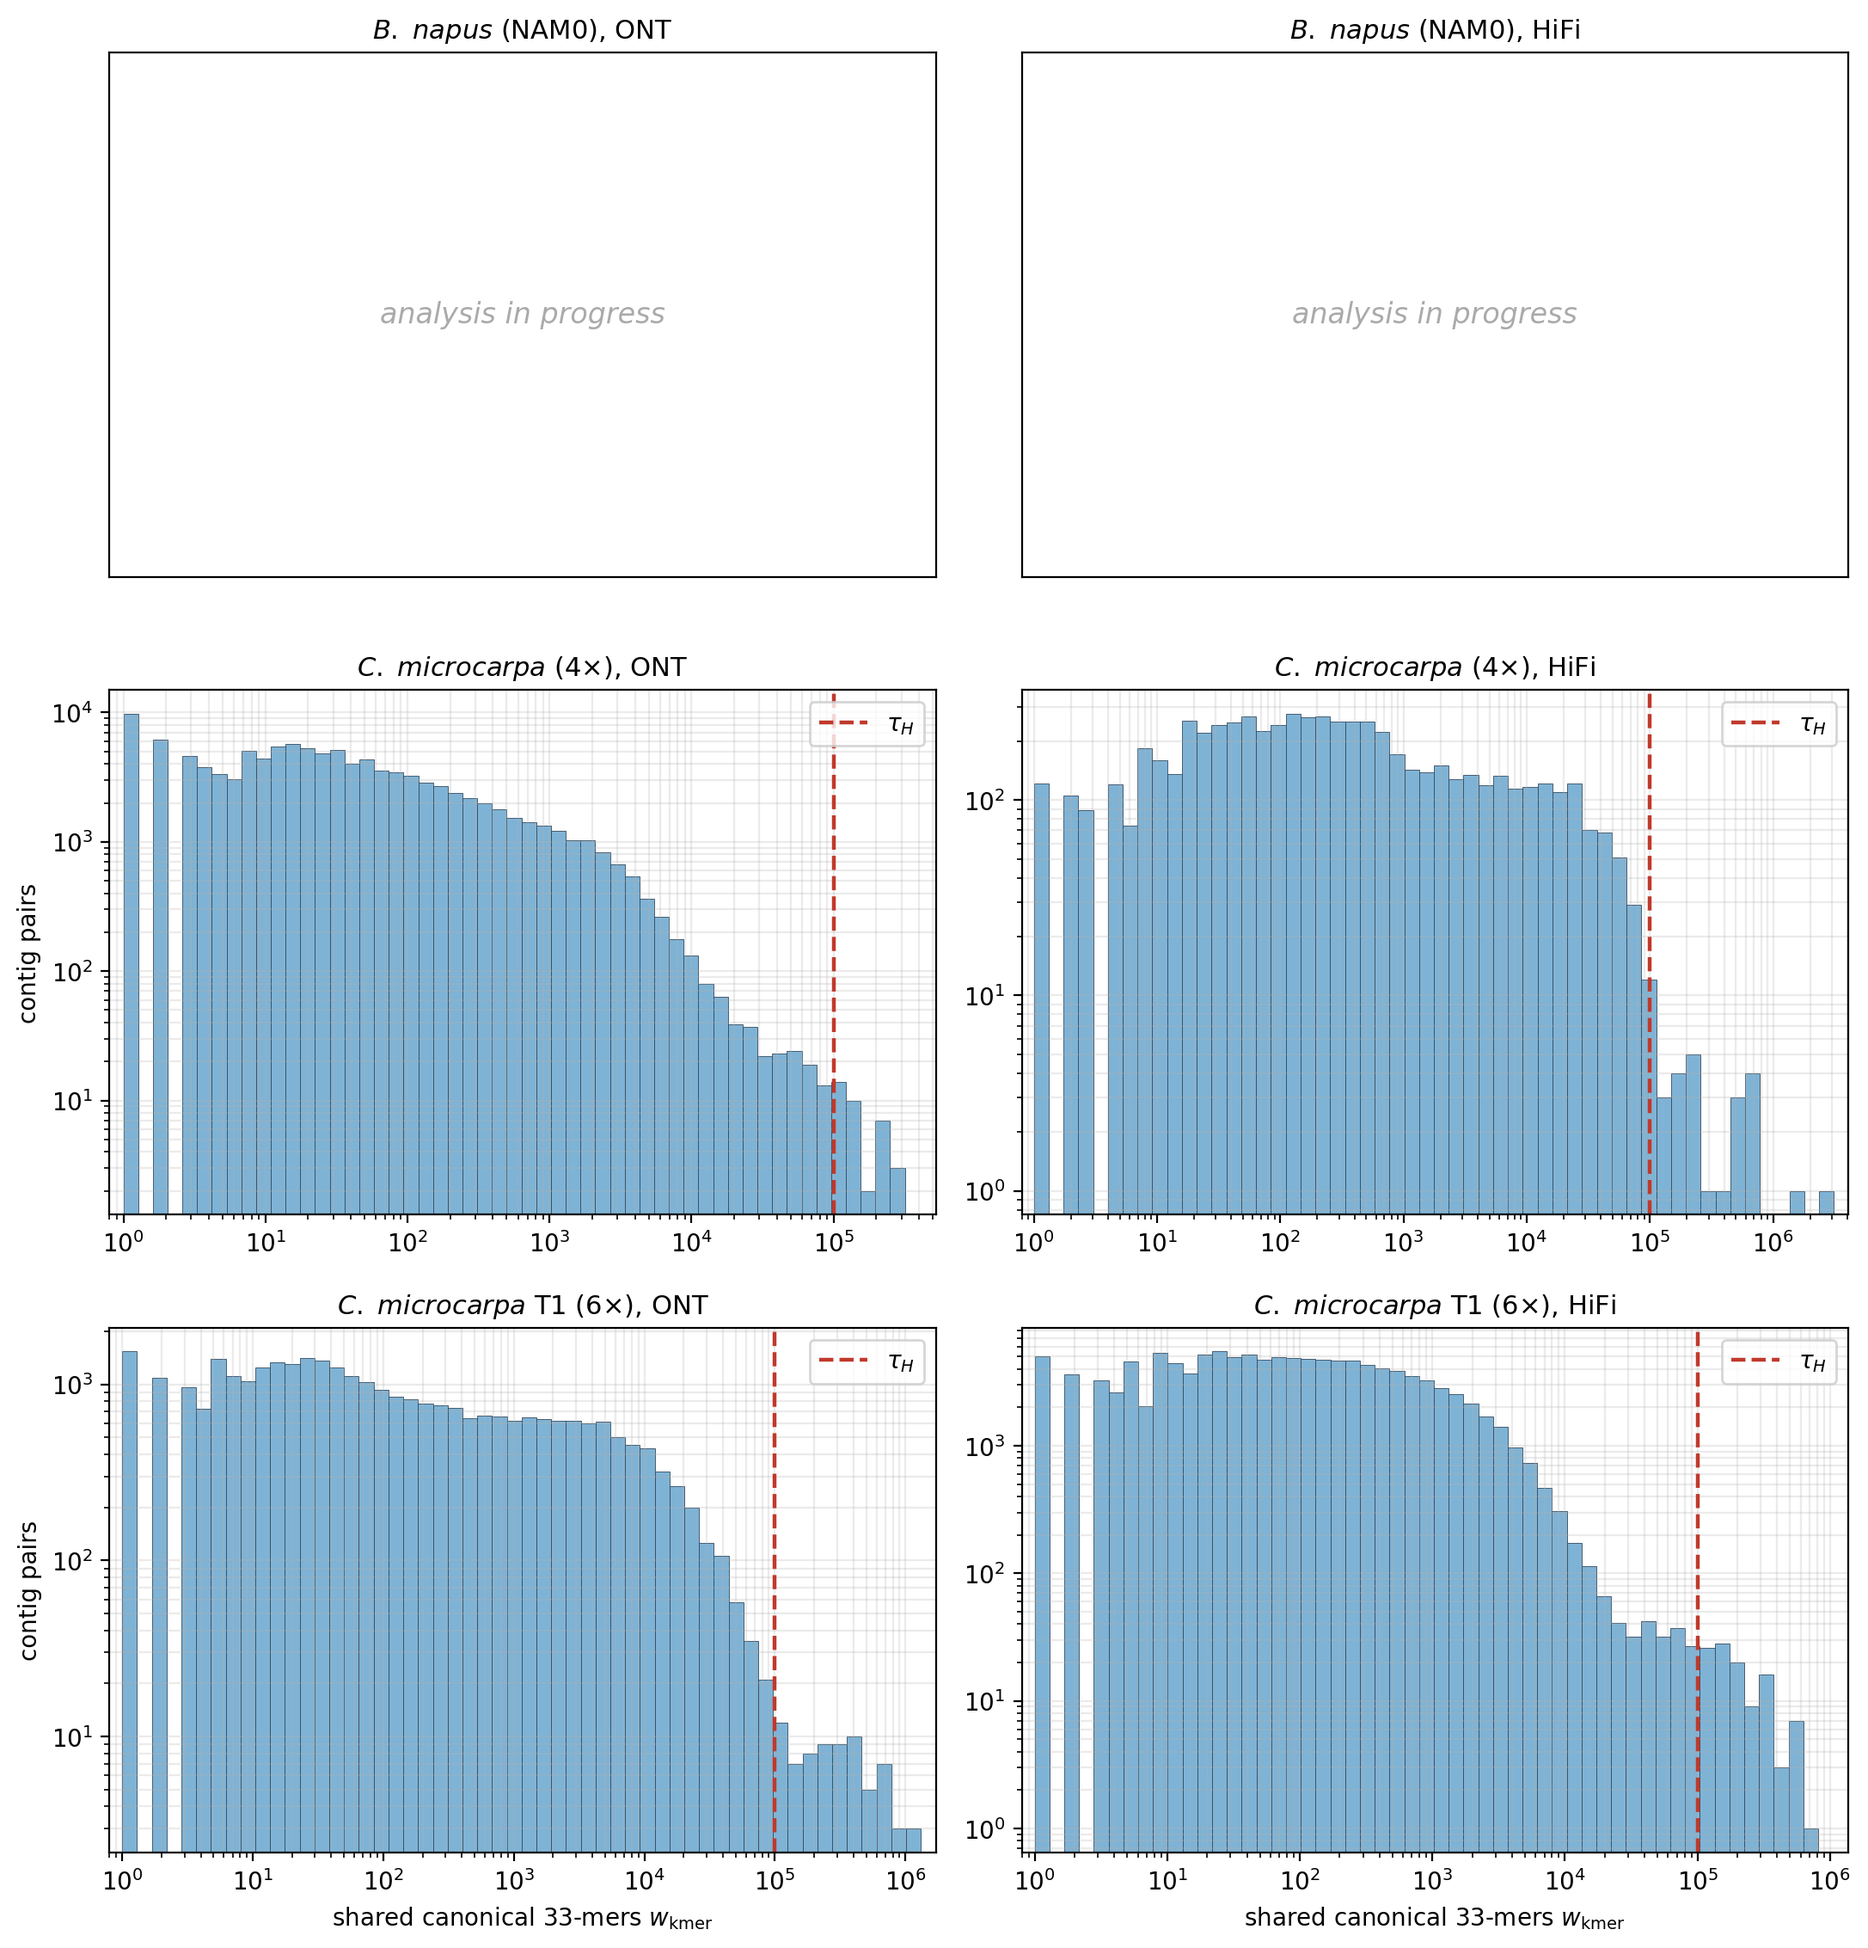
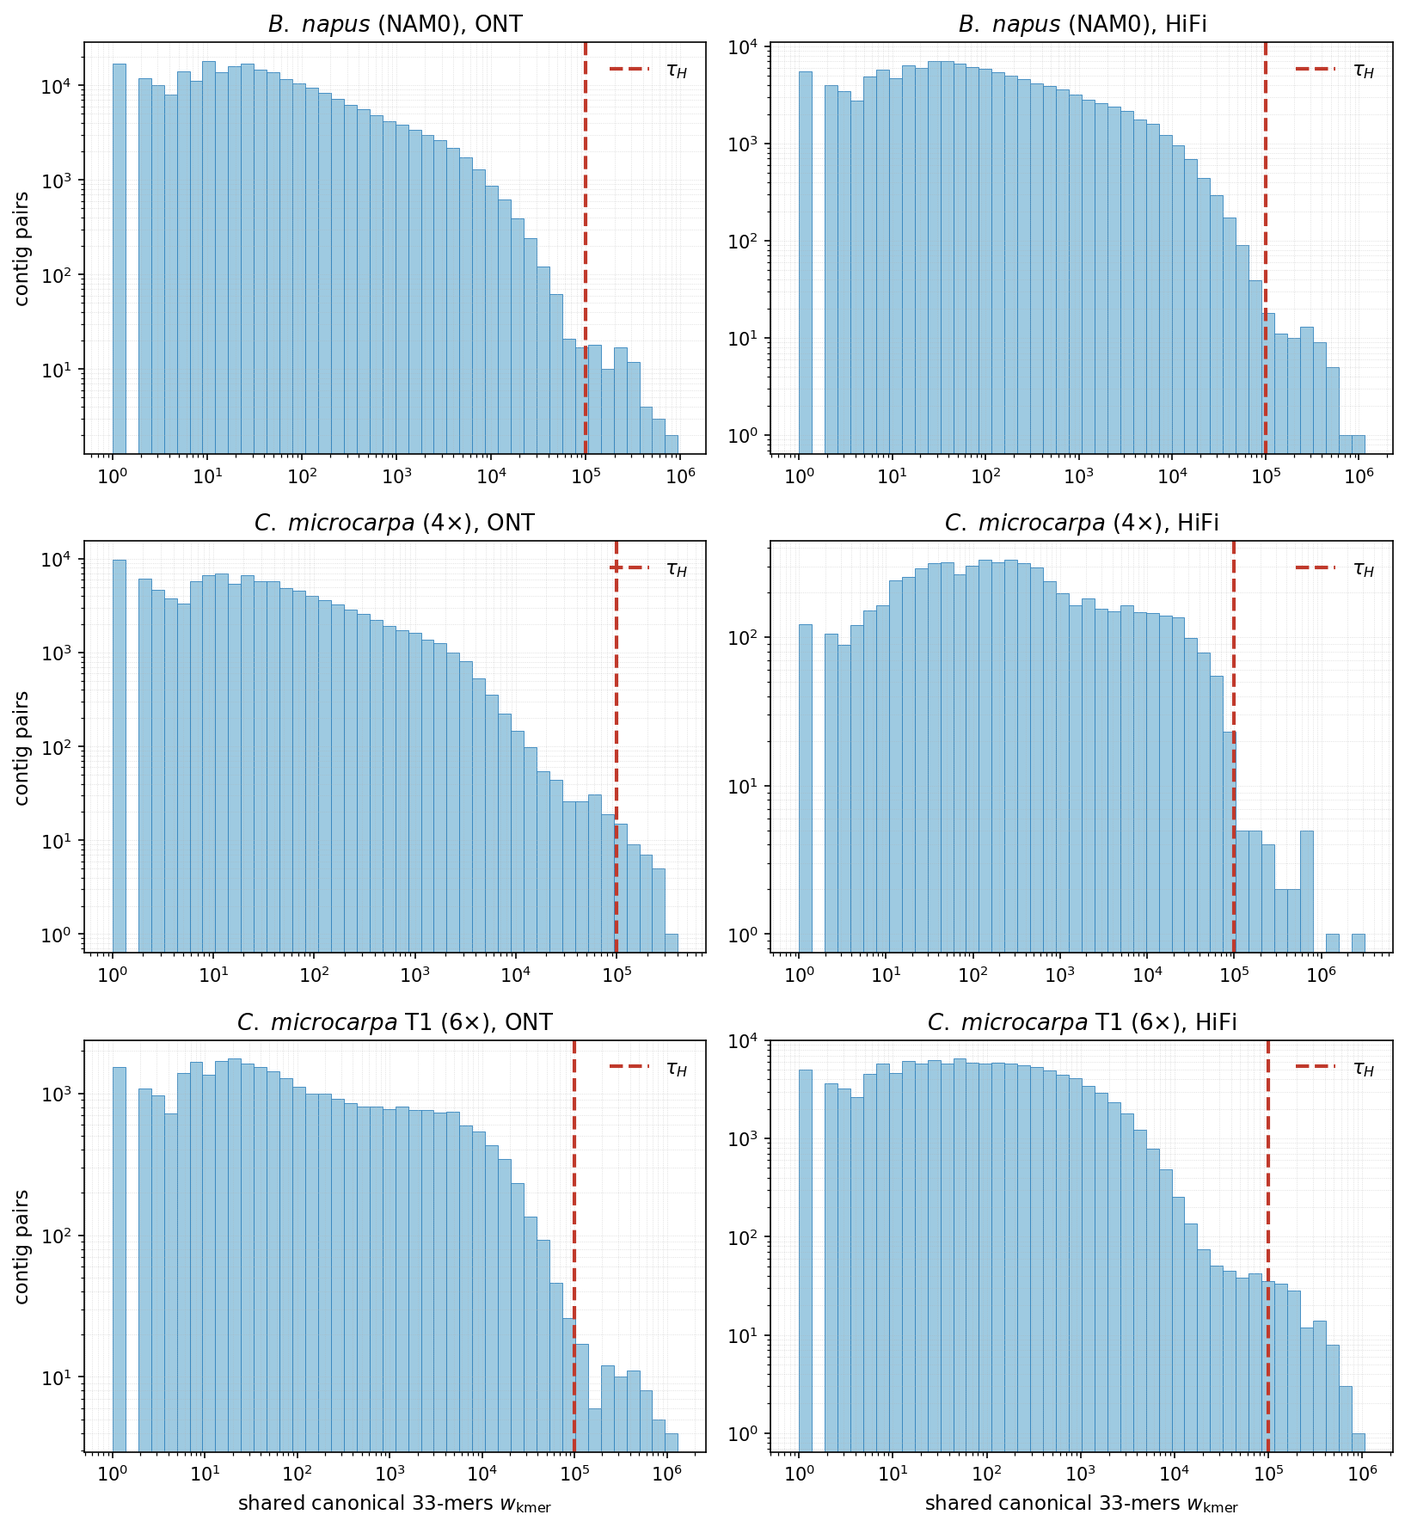
Complete Tables S3-S4, add Table S5 placeholder; restore pending text corrupted upstream; guard edgeless de-chimerization subgraph; refresh Fig S3/S4

diff --git a/pipeline/dechimerize_structural.py b/pipeline/dechimerize_structural.py
@@ -21,8 +21,11 @@ def structural_dechimerize(blocks, G, strong_edges, lengths, verbose=True):
         new = []
         for com in blocks:
             sub = G.subgraph(com)
-            parts = [list(c) for c in louvain_communities(sub, weight="weight",
-                                                          resolution=SUBRES, seed=1)]
+            if sub.number_of_edges() == 0 or sub.size(weight="weight") == 0:
+                parts = [list(com)]          # edgeless/zero-weight subgraph: cannot re-cluster, keep whole
+            else:
+                parts = [list(c) for c in louvain_communities(sub, weight="weight",
+                                                              resolution=SUBRES, seed=1)]
             big = [p for p in parts if sum(lengths[c] for c in p) >= MIN_SUB]
             seam = None
             if len(big) >= 2:

diff --git a/SUPPLEMENTARY.md b/SUPPLEMENTARY.md
@@ -42,7 +42,7 @@ genuine homoeologs share long sequence tracts and occupy the extreme upper tail,
 from the background of incidental matches; the strong-edge cutoff $\tau_H$ (dashed line) retains the
 upper-tail edges as homoeolog links, and is read off this distribution rather than tuned on truth
 labels. The more contiguous HiFi assemblies push the homoeolog tail to higher $w_{\mathrm{kmer}}$.
-The *B. napus* (NAM0) panels are left blank  its assembly runs.
+The *B. napus* (NAM0) panels are left blank pending its assembly runs.
 
 ### Figure S4. Read-level confusion matrices across methods and species
 <p align="center"><img src="figures/FigS4_confusion_all.png" alt="Read-level confusion matrices, three species by four methods" width="100%"></p>
@@ -56,7 +56,7 @@ emit unlabelled clusters (polyCRACKER, SubPhaser), clusters are mapped to subgen
 one-to-one assignment to truth. **PolySplit** concentrates on the diagonal (99.0% tetraploid,
 96.2% hexaploid, using no reference), whereas **polyCRACKER** collapses the subgenomes into a single
 cluster (46.5%, 41.0%) and **SubPhaser** leaks or scrambles them (76.7%, 38.8%). The reference-guided
-panels and the entire *B. napus* (NAM0) row are left blank  those runs.
+panels and the entire *B. napus* (NAM0) row are left blank pending those runs.
 
 ## Supplementary Tables
 
@@ -67,12 +67,15 @@ placed-chromosome size.
 
 | Genome | reads | mixed Flye | separated (Σ subgenomes) | reference |
 |---|---|---|---|---|
-| *B. napus* NAM0 | ONT | _[]_ | _[]_ | 1008 |
-| *B. napus* NAM0 | HiFi | _[]_ | _[]_ | 1008 |
-| *C. microcarpa* (4×) | ONT | 365 | _[]_ | 384 |
-| *C. microcarpa* (4×) | HiFi | 360 | _[]_ | 384 |
-| *C. microcarpa* T1 (6×) | ONT (`--nano-hq`) | 615 | _[]_ | 608 |
-| *C. microcarpa* T1 (6×) | HiFi | 591 | _[]_ | 608 |
+<!-- | *B. napus* NAM0 | ONT | 916 | _[pending]_ | 978 | -->
+| *B. napus* NAM0 | HiFi | 992 | 992 | 978 |
+<!-- | *C. microcarpa* (4×) | ONT | 365 | _[pending]_ | 360 | -->
+| *C. microcarpa* (4×) | HiFi | 360 | 359 | 360 |
+<!-- | *C. microcarpa* T1 (6×) | ONT (`--nano-hq`) | 615 | _[pending]_ | 587 | -->
+| *C. microcarpa* T1 (6×) | HiFi | 591 | 591 | 587 |
+
+Reference = summed placed (anchored) subgenome chromosomes; full reference genomes, including
+unplaced scaffolds, are 1008 / 384 / 608 Mb (Table I).
 
 ### Table S2. Per-subgenome precision, recall, and F1
 Breakdown of the macro-averaged values in main Table III. Abbreviations: P, precision; R, recall;
@@ -81,44 +84,98 @@ but are never false positives.
 
 | Genome | reads | subgenome | P | R | F1 |
 |---|---|---|---|---|---|
-| *B. napus* NAM0 | ONT | A | _[]_ | _[]_ | _[]_ |
-| *B. napus* NAM0 | ONT | C | _[]_ | _[]_ | _[]_ |
+| *B. napus* NAM0 | ONT | A | 96.6 | 95.7 | 96.1 |
+| *B. napus* NAM0 | ONT | C | 98.4 | 95.5 | 96.9 |
+| *B. napus* NAM0 | HiFi | A | 98.5 | 98.6 | 98.5 |
+| *B. napus* NAM0 | HiFi | C | 99.2 | 98.8 | 99.0 |
 | *C. microcarpa* (4×) | ONT | S1 | 98.9 | 96.8 | 97.8 |
 | *C. microcarpa* (4×) | ONT | S2 | 98.0 | 97.6 | 97.8 |
+| *C. microcarpa* (4×) | HiFi | S1 | 99.9 | 98.7 | 99.3 |
+| *C. microcarpa* (4×) | HiFi | S2 | 99.2 | 99.5 | 99.3 |
 | *C. microcarpa* T1 (6×) | ONT (`--nano-hq`) | S1 | 99.6 | 88.7 | 93.8 |
 | *C. microcarpa* T1 (6×) | ONT (`--nano-hq`) | S2 | 85.6 | 96.5 | 90.7 |
 | *C. microcarpa* T1 (6×) | ONT (`--nano-hq`) | S3 | 99.1 | 92.1 | 95.5 |
+| *C. microcarpa* T1 (6×) | HiFi | S1 | 96.7 | 96.1 | 96.4 |
+| *C. microcarpa* T1 (6×) | HiFi | S2 | 94.0 | 98.1 | 96.0 |
+| *C. microcarpa* T1 (6×) | HiFi | S3 | 99.0 | 94.8 | 96.9 |
 
 ### Table S3. Subgenome-resolved assembly quality (HiFi)
 Each subgenome's reads were assembled independently (Flye) and scaffolded with Hi-C (YaHS).
-Size is compared to the expected subgenome size; purity is the fraction of assembly length whose
-best alignment is to the intended subgenome rather than its homoeolog. A clean separation shows
-high purity and low BUSCO duplication (homoeologous copies removed); for contrast, the fused
-scaffold-first assembly is chimeric (low purity, high duplication).
+Purity (the fraction of assembly length whose best alignment is to the intended subgenome rather
+than its homoeolog) is the separation metric: near-100% purity confirms homoeologs were not fused.
+BUSCO completeness (C = single + duplicated) is high throughout; the elevated duplication (D) in the
+*B. napus* subgenomes reflects retained allelic haplotypes (`--keep-haplotypes`) and the ancestral
+*Brassica* genome triplication, not homoeolog fusion, which the purity rules out.
 
 | Assembly | Size Mb (% exp.) | Contigs | N50 | BUSCO C% (D%) | Back-map % | Purity % |
 |---|---|---|---|---|---|---|
-| *B. napus* A (exp. 419) | _[]_ | | | | | |
-| *B. napus* C (exp. 559) | _[]_ | | | | | |
-| *C. microcarpa* 4× SG1 (exp. 188) | _[]_ | | | | | |
-| *C. microcarpa* 4× SG2 (exp. 172) | _[]_ | | | | | |
-| *C. microcarpa* 6× SG1 (exp. 188) | _[]_ | | | | | |
-| *C. microcarpa* 6× SG2 (exp. 172) | _[]_ | | | | | |
-| *C. microcarpa* 6× SG3 (exp. 227) | _[]_ | | | | | |
+| *B. napus* A (exp. 419) | 428 (102) | 691 | 25.3 Mb | 98.2 (29.7) | ~100 | 100.0 |
+| *B. napus* C (exp. 559) | 564 (101) | 296 | 57.7 Mb | 96.7 (30.6) | ~100 | 98.6 |
+| *C. microcarpa* 4× SG1 (exp. 188) | 187 (99.5) | 64 | 29.3 Mb | 99.2 (1.5) | ~100 | 99.9 |
+| *C. microcarpa* 4× SG2 (exp. 172) | 172 (100.0) | 93 | 25.9 Mb | 99.7 (1.2) | ~100 | 99.9 |
+| *C. microcarpa* 6× SG1 (exp. 188) | 191 (101.6) | 147 | 46.4 Mb | 97.2 (6.3) | ~100 | 91.6 |
+| *C. microcarpa* 6× SG2 (exp. 172) | 180 (104.7) | 196 | 24.0 Mb | 99.4 (6.5) | ~100 | 96.0 |
+| *C. microcarpa* 6× SG3 (exp. 227) | 220 (96.9) | 237 | 29.1 Mb | 91.9 (1.5) | ~100 | 99.7 |
 
 
-### Table S4. Parameter sensitivity
-Read accuracy under variation of each fixed threshold around its default, holding the others fixed;
-defaults in **bold**. Demonstrates that no result hinges on a tuned value. _[: sweep to run]_
+### Table S4. Parameter sensitivity (all three species, HiFi)
+Strict read accuracy (correct / chromosome-truth, ambiguous and unassigned counted as errors) under
+wide variation of each decision threshold, holding the others at their default (**bold**), for all
+three allopolyploids at HiFi. $t$ and $\rho$ govern the reference-guided signature classifier
+(PolySplit-Ref); $\beta$ and $\alpha$ govern PolySplit read propagation. The defaults reproduce the
+Table III results, and accuracy is flat across a wide neighbourhood of every default, degrading only
+at extreme values (e.g. very large $\rho$, which rejects most reads as unassigned). No result hinges
+on a tuned value. $f_{\max}$ (signature copy cap) and the block-size floor are structural constants
+set from the data, not accuracy thresholds, and are described in Methods rather than swept here.
 
-| Parameter | values tested | read accuracy |
-|---|---|---|
-| signature copy cap $f_{\max}$ | 2 / **3** / 5 | _[]_ |
-| min signature hits $t$ | 2 / **3** / 5 | _[]_ |
-| dominance ratio $\rho$ | 2 / **3** / 4 | _[]_ |
-| block floor (Mb) | 1 / **3** / 5 | _[]_ |
-| recovery floor $\alpha$ | 0.50 / **0.55** / 0.60 | _[]_ |
-| read confidence $\beta$ | 0.55 / **0.60** / 0.65 | _[]_ |
+**Minimum signature hits $t$** (PolySplit-Ref; $\rho=3$ fixed)
+
+| dataset | 1 | 2 | **3** | 5 | 10 | 20 | 50 | 100 |
+|---|---|---|---|---|---|---|---|---|
+| *C. microcarpa* (4×) | 98.9 | 98.9 | **98.9** | 98.9 | 98.9 | 98.9 | 98.9 | 98.8 |
+| *C. microcarpa* T1 (6×) | 96.9 | 96.9 | **96.9** | 96.9 | 96.9 | 96.8 | 96.6 | 96.3 |
+| *B. napus* NAM0 | 98.4 | 98.4 | **98.4** | 98.4 | 98.4 | 98.4 | 98.4 | 98.3 |
+
+**Dominance ratio $\rho$** (PolySplit-Ref; $t=3$ fixed)
+
+| dataset | 1.5 | 2 | **3** | 5 | 10 | 20 | 50 | 100 |
+|---|---|---|---|---|---|---|---|---|
+| *C. microcarpa* (4×) | 99.3 | 99.2 | **98.9** | 98.4 | 96.7 | 93.1 | 81.9 | 67.5 |
+| *C. microcarpa* T1 (6×) | 98.3 | 97.8 | **96.9** | 94.3 | 88.6 | 82.4 | 69.1 | 53.6 |
+| *B. napus* NAM0 | 99.5 | 99.1 | **98.4** | 97.0 | 93.9 | 89.0 | 77.6 | 64.6 |
+
+**Read confidence floor $\beta$** (PolySplit)
+
+| dataset | 0.50 | 0.55 | **0.60** | 0.70 | 0.80 | 0.90 |
+|---|---|---|---|---|---|---|
+| *C. microcarpa* (4×) | 99.4 | 99.1 | **99.0** | 98.8 | 98.7 | 98.6 |
+| *C. microcarpa* T1 (6×) | 96.5 | 96.3 | **96.2** | 95.5 | 95.1 | 94.9 |
+| *B. napus* NAM0 | 98.8 | 98.8 | **98.7** | 98.5 | 98.4 | 98.2 |
+
+**Small-contig recovery floor $\alpha$** (PolySplit)
+
+| dataset | 0.40 | 0.50 | **0.55** | 0.60 | 0.70 | 0.80 |
+|---|---|---|---|---|---|---|
+| *C. microcarpa* (4×) | 99.0 | 99.0 | **99.0** | 99.0 | 99.0 | 99.0 |
+| *C. microcarpa* T1 (6×) | 96.0 | 96.3 | **96.3** | 96.2 | 96.1 | 96.0 |
+| *B. napus* NAM0 | 98.7 | 98.7 | **98.7** | 98.7 | 98.7 | 98.3 |
+
+### Table S5. Assembly-free read-direct control (no assembly, no reference)
+Test of whether subgenome signal is recoverable from raw reads *without* the assembly step. Raw
+reads are clustered directly by single-copy $k$-mer incidence (KMC $k=21$ band $\to$ read$\times$feature
+matrix $\to$ truncated SVD $+$ $K$-means, $K$ subgenomes) and scored by the best one-to-one
+cluster$\to$truth assignment on an 80,000-read sample, against the same chromosome-anchored truth as
+every other method. This is the assembly-free **ablation** of PolySplit, not a variant of it:
+PolySplit's Hi-C blocking, homoeolog pairing, and repeat-composition contrast all require assembled
+contigs and cannot run on raw reads. Accuracy near the $1/K$ chance line means the subgenome signal
+is not accessible in raw reads and the assembly step is necessary. Contrast with the assembled
+PolySplit read accuracies in main-text Table II (95–99%).
+
+| Genome | $K$ | chance % | ONT acc % | HiFi acc % |
+|---|---|---|---|---|
+| *B. napus* NAM0 | 2 | 50.0 | _[pending]_ | _[pending]_ |
+| *C. microcarpa* (4×) | 2 | 50.0 | _[pending]_ | _[pending]_ |
+| *C. microcarpa* T1 (6×) | 3 | 33.3 | _[pending]_ | _[pending]_ |
 
 ## Data and Code Availability
 - **Sequencing data.** *Camelina microcarpa* reads and assemblies: EBI-ENA accession PRJEB96055;
